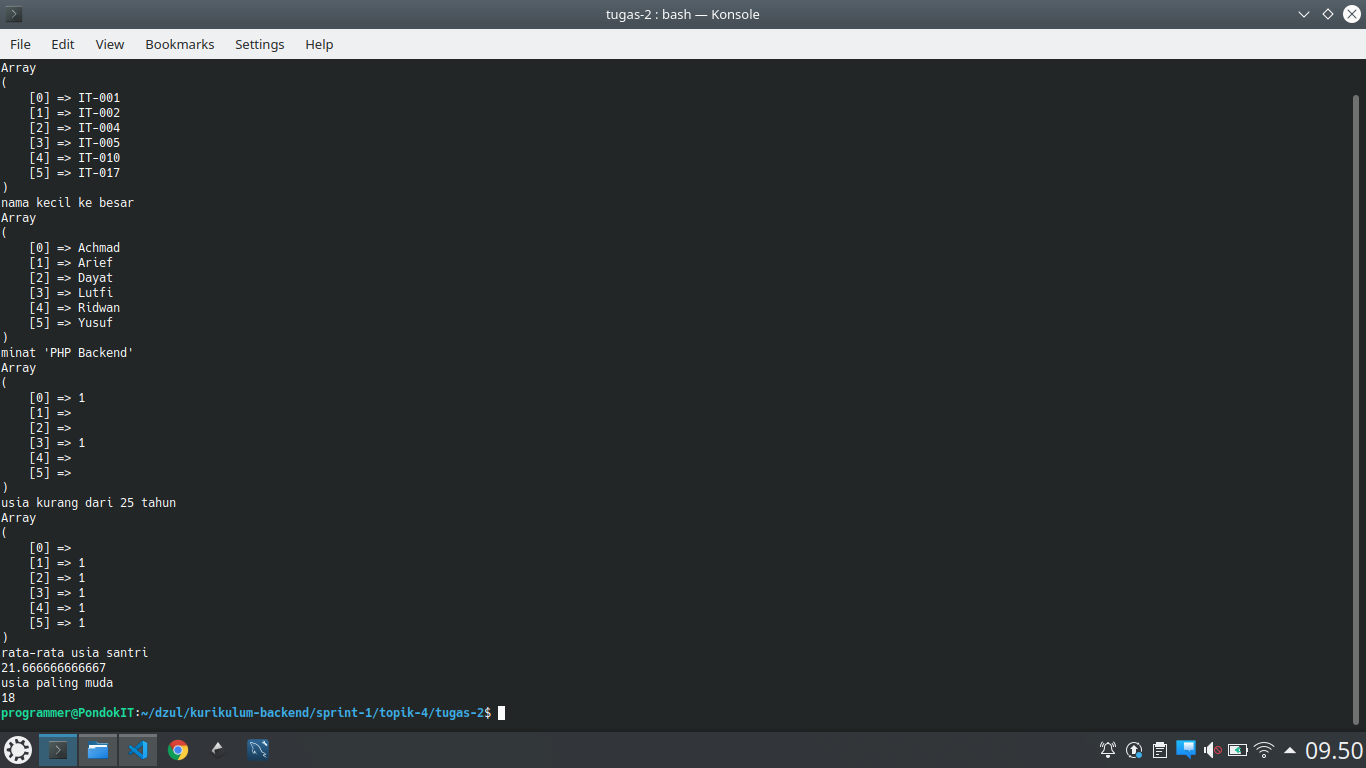
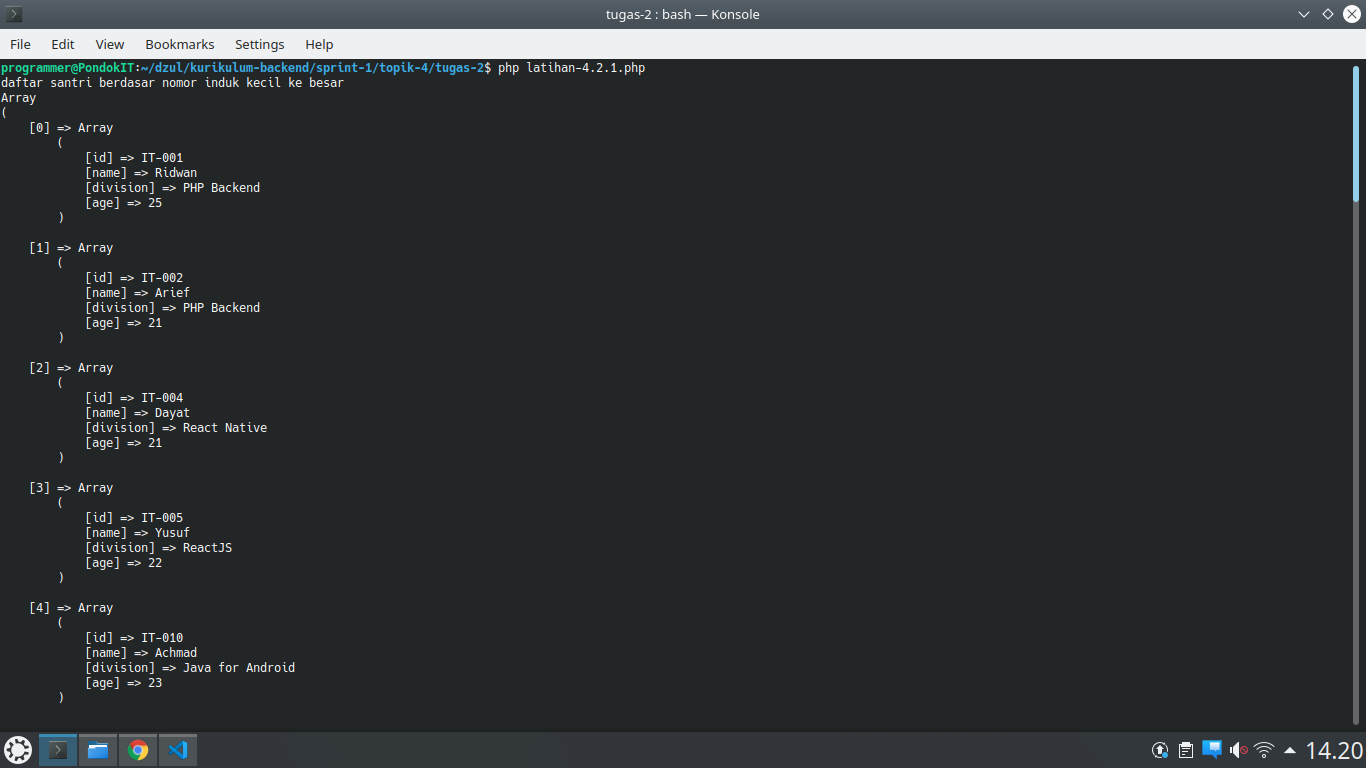
backend

diff --git a/sprint-1/topik-4/tugas-2/latihan-4.2.1.php b/sprint-1/topik-4/tugas-2/latihan-4.2.1.php
@@ -37,33 +37,64 @@ $students = [
      'age' => 18,
  ],
 ];
-function data(array $students)
+echo "daftar santri berdasar nomor induk kecil ke besar"."\n";
+function id($bio)
 {
-    foreach ($students as $key => $value)
-    {
-        $id[] = $value["id"];
-        $name[] = $value["name"];
-        $division[] = $value["division"] == ("PHP Backend");
-        $age[] = $value["age"] < 25;
-        $umur_santri[] = $value["age"];
-        $mean_santri = array_sum($umur_santri) / count($umur_santri);
-        $santri_muda = min($umur_santri);
-    }
-    echo "nomor induk kecil ke besar"."\n";
-    array_multisort($id, $students);
-    print_r($id);
-    echo "nama kecil ke besar"."\n";
-    array_multisort($name, $students);
-    print_r($name);
-    echo "minat 'PHP Backend'"."\n";
-    print_r($division);
-    echo "usia kurang dari 25 tahun"."\n";
-    print_r($age);
-    echo "rata-rata usia santri"."\n";
-    print_r($mean_santri);
-    echo "\n";
-    echo "usia paling muda"."\n";
-    print_r($santri_muda);
+    sort($bio);
+    print_r($bio);
 }
-data($students);
-echo "\n";
+id($students);
+echo "daftar santri berdasar nama kecil ke besar"."\n";
+function sortname($bio)
+{
+    foreach ($bio as $key => $value)
+    {
+        $name[] = $value["name"];
+    }
+    array_multisort($name,$bio);
+    print_r($bio);
+}
+sortname($students);
+echo "daftar santri yang minat PHP Backend"."\n";
+function division($bio)
+{
+    foreach ($bio as $key => $value) 
+    {
+        if($bio[$key]["division"]=="PHP Backend")
+        print_r($bio[$key]);
+    } 
+}
+division($students);
+echo "jumlah santri berusia kurang dari 25"."\n";
+function age($bio)
+{
+    foreach ($bio as $key => $value) 
+        {
+            if($bio[$key]["age"]<25)
+            print_r($bio[$key]);
+        } 
+}
+age($students);
+echo "rata-rata usia santri"."\n";
+function mean($bio)
+{
+    foreach ($bio as $key => $value)
+    {
+        $umur_santri[] = $value["age"];
+    }
+    $mean_santri = array_sum($umur_santri) / count($umur_santri);
+    echo $mean_santri."\n";
+}
+mean($students);
+echo "urutan umur santri dari paling muda"."\n";
+function sortage($bio)
+{
+    foreach ($bio as $key => $value)
+    {
+        $age[] = $value["age"];
+    }
+    array_multisort($age,$bio);
+    print_r($bio);
+}
+sortage($students);
+echo "==========TAMAT=========="."\n";
